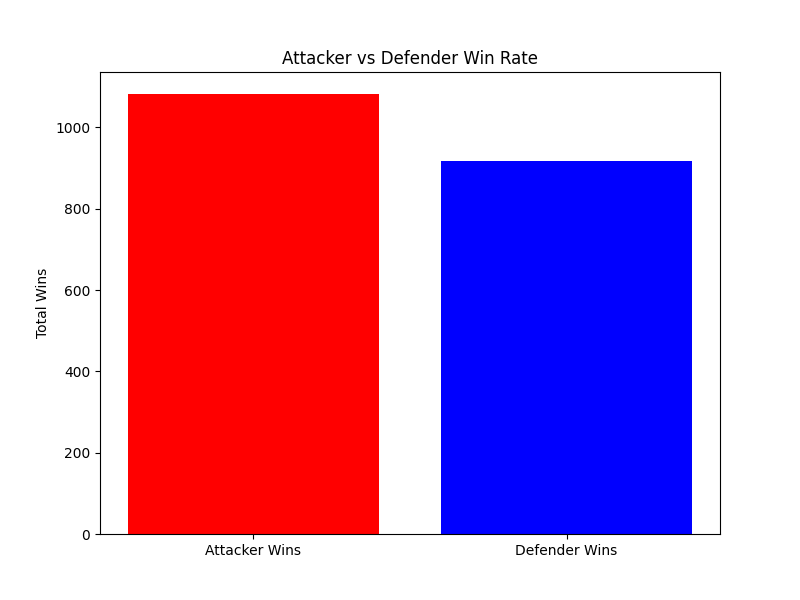
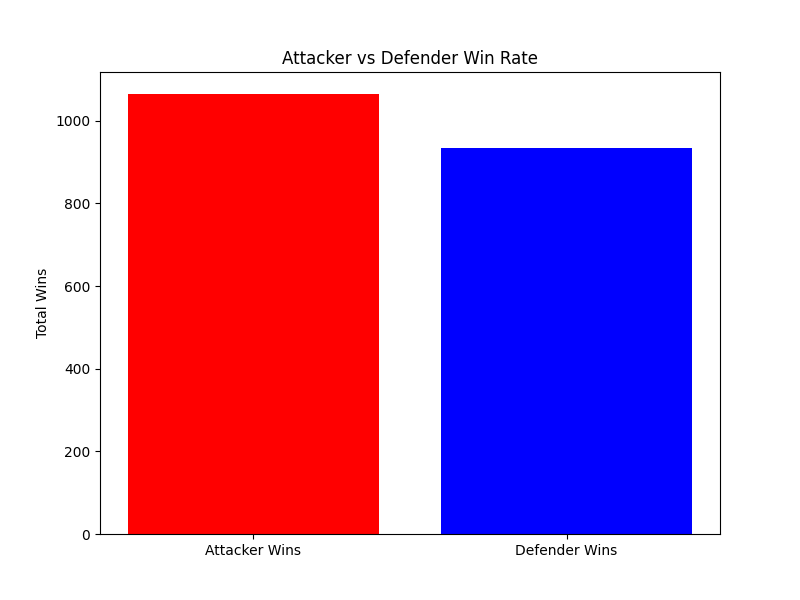
seed random number

diff --git a/assignments/assignment_5_risk.py b/assignments/assignment_5_risk.py
@@ -5,6 +5,10 @@
 import random
 import numpy as py
 
+# seed random number to ensure same result everytime
+
+random.seed(1)
+
 # variables keep track of the total number of wins for attacker and defender across 1000 simulations
 total_attacker_wins = 0
 total_defender_wins = 0
